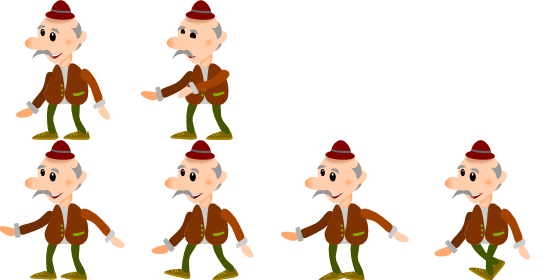
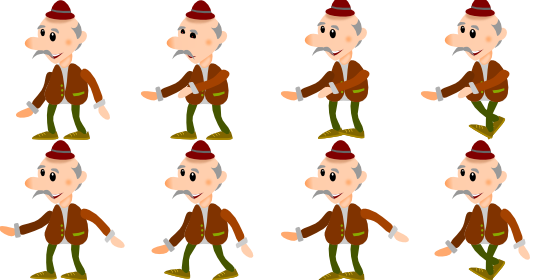
The gun shoots bullets!

Changed region(s): [[0.4857, 0.0, 0.6679, 0.5143], [0.7286, 0.0, 0.9107, 0.5143]]

diff --git a/platformer/platformer.js b/platformer/platformer.js
@@ -22,16 +22,62 @@
           animation: "run",
           flip: "x",
           speed: 400,
-          jumpSpeed: -600
+          jumpSpeed: -600,
+          withGun: true
         });
-        return this.add('2d, platformerControls, animation, alwaysFaceFront');
+        this.add('2d, platformerControls, animation, alwaysFaceFront');
+        Q.input.on("action", this, "swapGun");
+        return Q.input.on("fire", this, "fireGun");
       },
       step: function() {
-        if (this.p.vx === 0) {
-          return this.play("withGun");
+        if (this.p.withGun) {
+          if (this.p.vx === 0) {
+            return this.play("withGun");
+          } else {
+            return this.play("withGunRun");
+          }
         } else {
-          return this.play("run");
+          if (this.p.vx === 0) {
+            return this.play("stand");
+          } else {
+            return this.play("run");
+          }
         }
+      },
+      swapGun: function() {
+        if (this.p.withGun) {
+          Q('Gun').invoke("hide");
+        } else {
+          Q('Gun').invoke("show");
+        }
+        return this.p.withGun = !this.p.withGun;
+      },
+      flipped: function() {
+        if (this.p.flip === 'x') {
+          return 1;
+        } else {
+          return -1;
+        }
+      },
+      fireGun: function() {
+        var bullet;
+        if (!this.p.withGun) {
+          return;
+        }
+        bullet = new Q.Bullet({
+          vx: 600 * this.flipped(),
+          x: this.p.x + (115 * this.flipped()),
+          y: this.p.y + 2,
+          flip: this.p.flip
+        });
+        return this.p.stage.insert(bullet);
+      }
+    });
+    Q.MovingSprite.extend("Bullet", {
+      init: function(p) {
+        return this._super(p, {
+          asset: "bullet.png"
+        });
       }
     });
     Q.Sprite.extend("Gun", {
@@ -64,7 +110,9 @@
     });
     Q.scene("stage1", function(stage) {
       var gun, player;
-      player = new Q.Player({});
+      player = new Q.Player({
+        stage: stage
+      });
       gun = new Q.Gun({});
       stage.insert(player);
       stage.insert(gun, player);
@@ -91,6 +139,10 @@
       withGun: {
         frames: [1],
         rate: 1
+      },
+      withGunRun: {
+        frames: [1, 2, 3],
+        rate: 1 / 4
       }
     });
     return Q.load("herman.png, gun.png, bullet.png", function() {
